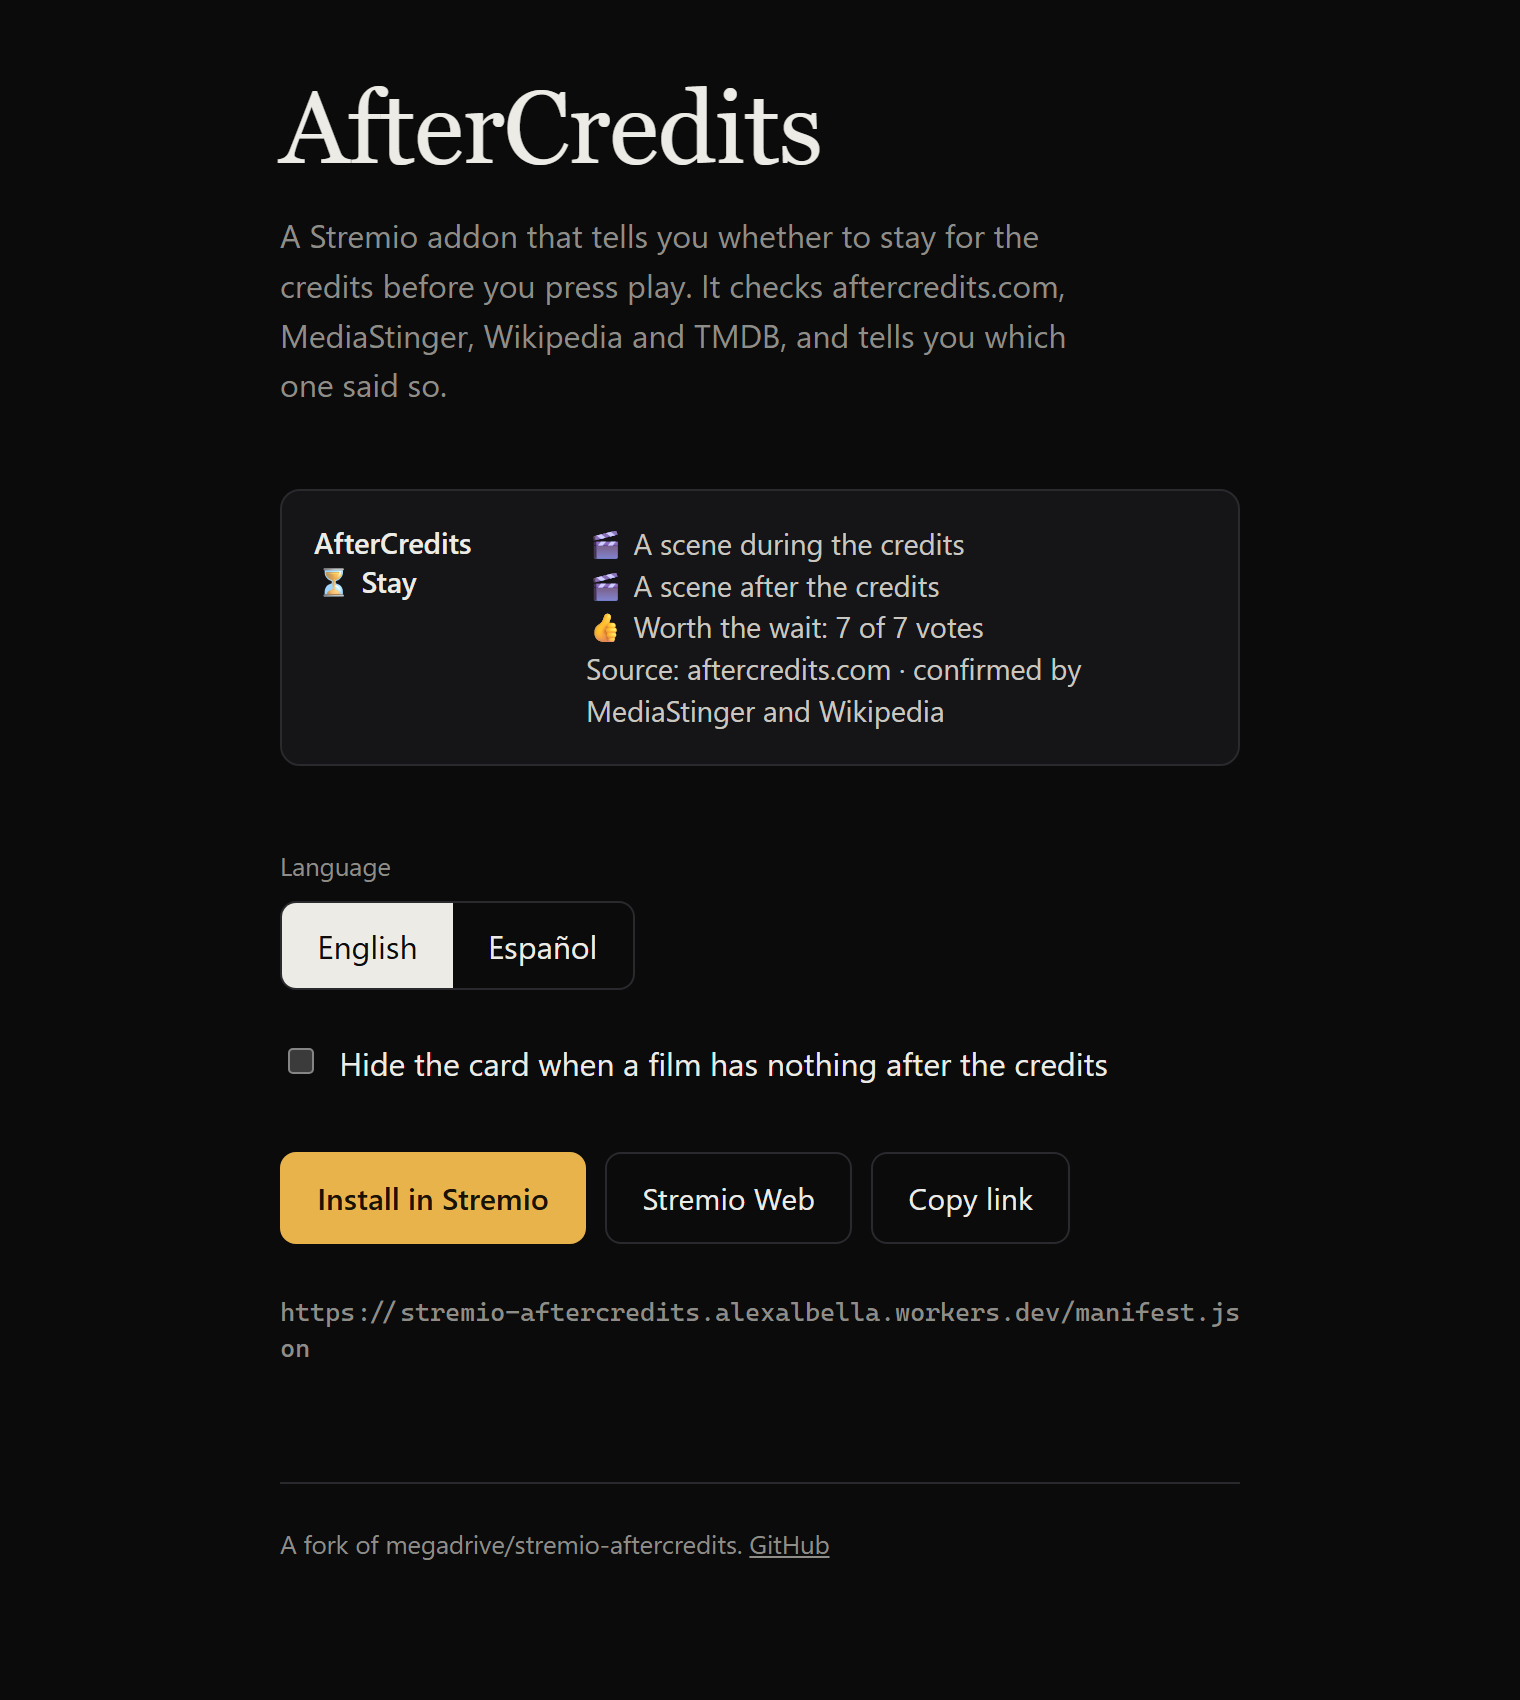
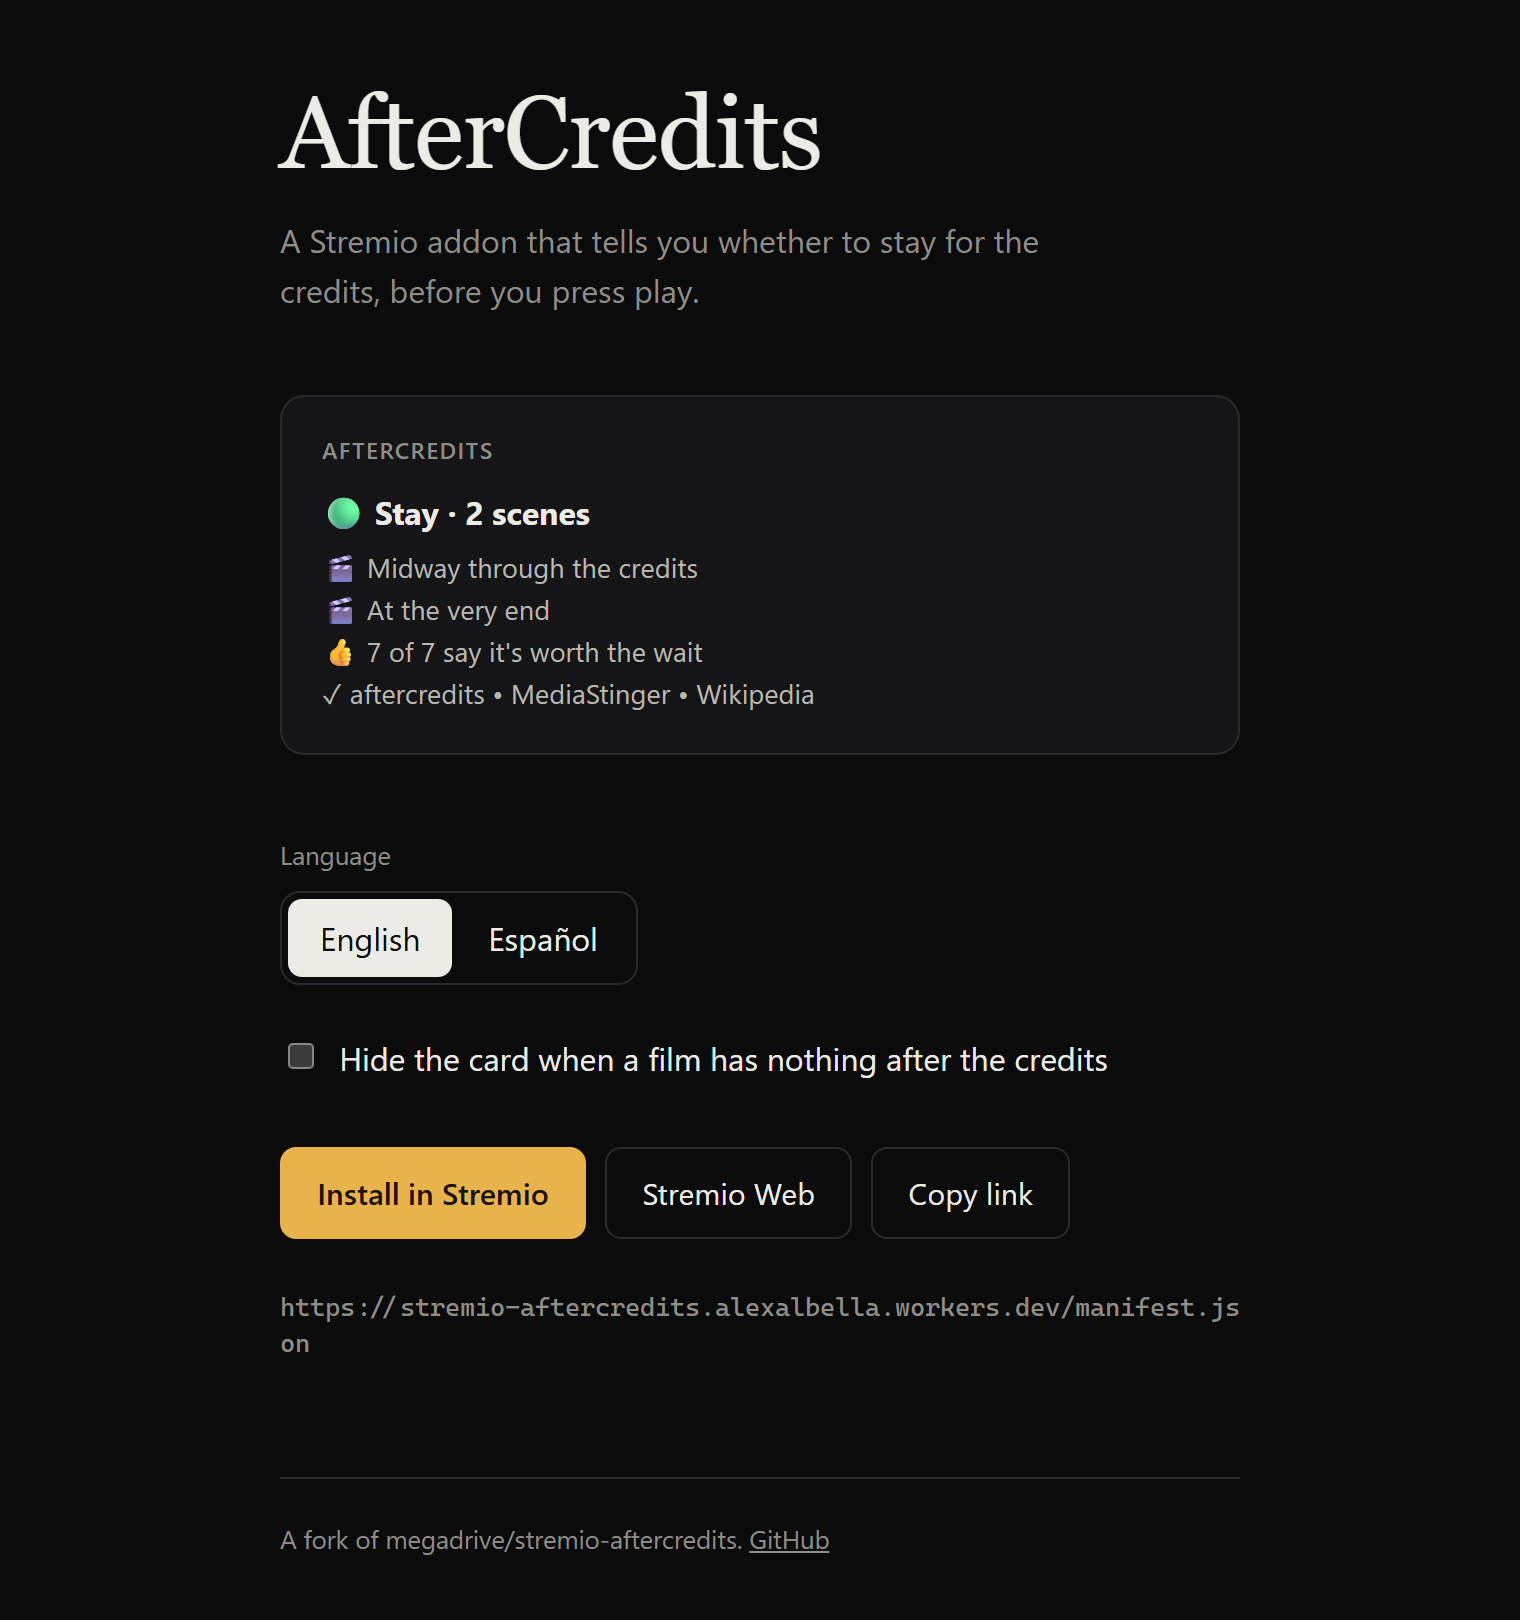
Card: traffic-light layout, half the words
The card now reads like the Ratings addon next to it: a coloured dot and
the verdict in the name, one short line per fact, the sources on one line.

  🟢 Quédate · 2 escenas        ⚪ Puedes irte
  🎬 A mitad de los créditos    Nada durante ni después de los créditos
  🎬 Al final del todo          ✓ aftercredits • MediaStinger
  👍 7 de 7 dicen que merece la pena
  ✓ aftercredits • MediaStinger • Wikipedia

- The name no longer repeats "AfterCredits"; Stremio already labels the group.
- 🟡 marks a disputed verdict, with the dissenting sources after ✗.
- A mostly negative reader vote shows as 👎.
- Configure page: the preview follows Stremio's layout, a shorter lede, and
  an inset segmented control. README and screenshot updated.

diff --git a/static/index.html b/static/index.html
@@ -39,27 +39,33 @@
     }
     .lede { color: var(--muted); margin: 0 0 2.5rem; max-width: 26rem; }
 
-    /* A preview of the card as it shows up in Stremio's stream list. */
+    /* A preview of the card as Stremio lays it out: the group label, the name
+       in bold, then the short lines underneath. */
     .card {
-      display: grid;
-      grid-template-columns: 7.5rem 1fr;
-      gap: 1rem;
       background: var(--panel);
       border: 1px solid var(--line);
-      border-radius: 10px;
-      padding: 1rem;
+      border-radius: 12px;
+      padding: 1.1rem 1.25rem 1.2rem;
       margin-bottom: 2.5rem;
-      font-size: 0.9rem;
     }
-    .card-name { white-space: pre-line; font-weight: 600; line-height: 1.35; }
-    .card-desc { white-space: pre-line; color: #c9c7c0; line-height: 1.45; }
+    .card-group {
+      font-size: 0.72rem;
+      font-weight: 600;
+      color: var(--muted);
+      text-transform: uppercase;
+      letter-spacing: 0.06em;
+      margin: 0 0 0.6rem;
+    }
+    .card-name { font-weight: 650; font-size: 1rem; margin: 0 0 0.3rem; }
+    .card-desc { white-space: pre-line; color: #b9b7b0; font-size: 0.85rem; line-height: 1.55; margin: 0; }
 
     fieldset { border: 0; padding: 0; margin: 0 0 1.5rem; }
     legend, .label { font-size: 0.8rem; color: var(--muted); margin-bottom: 0.5rem; padding: 0; }
-    .segmented { display: inline-flex; border: 1px solid var(--line); border-radius: 8px; overflow: hidden; }
+    .segmented { display: inline-flex; gap: 2px; padding: 3px; border: 1px solid var(--line); border-radius: 10px; }
     .segmented label { position: relative; }
     .segmented input { position: absolute; opacity: 0; inset: 0; margin: 0; cursor: pointer; }
-    .segmented span { display: block; padding: 0.55rem 1.1rem; cursor: pointer; }
+    .segmented span { display: block; padding: 0.45rem 1rem; border-radius: 7px; cursor: pointer; }
+    .segmented input:not(:checked) + span:hover { background: var(--panel); }
     .segmented input:checked + span { background: var(--text); color: var(--bg); }
     .segmented input:focus-visible + span { outline: 2px solid var(--accent); outline-offset: -2px; }
     .check { display: flex; gap: 0.6rem; align-items: flex-start; cursor: pointer; }
@@ -96,11 +102,12 @@
 <body>
   <main>
     <h1>AfterCredits</h1>
-    <p class="lede" data-i18n="lede">A Stremio addon that tells you whether to stay for the credits before you press play. It checks aftercredits.com, MediaStinger, Wikipedia and TMDB, and tells you which one said so.</p>
+    <p class="lede" data-i18n="lede">A Stremio addon that tells you whether to stay for the credits, before you press play.</p>
 
     <div class="card" aria-label="Preview">
-      <div class="card-name" id="preview-name"></div>
-      <div class="card-desc" id="preview-desc"></div>
+      <p class="card-group">AfterCredits</p>
+      <p class="card-name" id="preview-name"></p>
+      <p class="card-desc" id="preview-desc"></p>
     </div>
 
     <form id="config">
@@ -133,7 +140,7 @@
   <script>
     const T = {
       en: {
-        lede: "A Stremio addon that tells you whether to stay for the credits before you press play. It checks aftercredits.com, MediaStinger, Wikipedia and TMDB, and tells you which one said so.",
+        lede: "A Stremio addon that tells you whether to stay for the credits, before you press play.",
         language: "Language",
         hidenone: "Hide the card when a film has nothing after the credits",
         install: "Install in Stremio",
@@ -141,11 +148,11 @@
         copy: "Copy link",
         copied: "Copied",
         footer: "A fork of megadrive/stremio-aftercredits.",
-        name: "AfterCredits\n⏳ Stay",
-        desc: "🎬 A scene during the credits\n🎬 A scene after the credits\n👍 Worth the wait: 7 of 7 votes\nSource: aftercredits.com · confirmed by MediaStinger and Wikipedia",
+        name: "🟢 Stay · 2 scenes",
+        desc: "🎬 Midway through the credits\n🎬 At the very end\n👍 7 of 7 say it's worth the wait\n✓ aftercredits • MediaStinger • Wikipedia",
       },
       es: {
-        lede: "Un addon de Stremio que te dice si quedarte a los créditos antes de darle al play. Consulta aftercredits.com, MediaStinger, Wikipedia y TMDB, y te dice cuál lo ha dicho.",
+        lede: "Un addon de Stremio que te dice si quedarte a los créditos antes de darle al play.",
         language: "Idioma",
         hidenone: "Ocultar la tarjeta cuando no hay nada tras los créditos",
         install: "Instalar en Stremio",
@@ -153,8 +160,8 @@
         copy: "Copiar enlace",
         copied: "Copiado",
         footer: "Un fork de megadrive/stremio-aftercredits.",
-        name: "AfterCredits\n⏳ Quédate",
-        desc: "🎬 Una escena durante los créditos\n🎬 Una escena al final de los créditos\n👍 Merece la pena esperar: 7 de 7 votos\nFuente: aftercredits.com · lo confirman MediaStinger y Wikipedia",
+        name: "🟢 Quédate · 2 escenas",
+        desc: "🎬 A mitad de los créditos\n🎬 Al final del todo\n👍 7 de 7 dicen que merece la pena\n✓ aftercredits • MediaStinger • Wikipedia",
       },
     };
 

diff --git a/src/i18n.ts b/src/i18n.ts
@@ -1,8 +1,9 @@
 import type { Language } from "./config.js";
 import type { SourceId } from "./types.js";
 
+/** Short names: the card's source line has room for three of them. */
 export const SOURCE_NAMES: Record<SourceId, string> = {
-  aftercredits: "aftercredits.com",
+  aftercredits: "aftercredits",
   mediastinger: "MediaStinger",
   tmdb: "TMDB",
   wikipedia: "Wikipedia",
@@ -10,46 +11,37 @@ export const SOURCE_NAMES: Record<SourceId, string> = {
 
 type Strings = {
   description: string;
-  nameExtras: string;
-  nameNone: string;
+  stay: (scenes: number) => string;
+  go: string;
   during: (n: number) => string;
   after: (n: number) => string;
   somewhere: string;
   none: string;
   worthIt: (yes: number, votes: number) => string;
-  source: (name: string) => string;
-  confirmedBy: (names: string[]) => string;
-  disagree: (names: string[]) => string;
+  notWorthIt: (yes: number, votes: number) => string;
 };
-
-const list = (lang: Language, items: string[]) =>
-  new Intl.ListFormat(lang, { style: "long", type: "conjunction" }).format(items);
 
 export const STRINGS: Record<Language, Strings> = {
   en: {
     description: "Tells you whether a film has scenes during or after the credits, before you press play.",
-    nameExtras: "AfterCredits\n⏳ Stay",
-    nameNone: "AfterCredits\n✓ No extras",
-    during: (n) => (n > 1 ? `🎬 ${n} scenes during the credits` : "🎬 A scene during the credits"),
-    after: (n) => (n > 1 ? `🎬 ${n} scenes after the credits` : "🎬 A scene after the credits"),
-    somewhere: "🎬 An extra scene in the credits",
+    stay: (n) => (n === 0 ? "Stay" : `Stay · ${n} ${n === 1 ? "scene" : "scenes"}`),
+    go: "You can go",
+    during: (n) => (n > 1 ? `🎬 ${n} scenes midway through the credits` : "🎬 Midway through the credits"),
+    after: (n) => (n > 1 ? `🎬 ${n} scenes at the very end` : "🎬 At the very end"),
+    somewhere: "🎬 Somewhere in the credits",
     none: "Nothing during or after the credits",
-    worthIt: (yes, votes) => `👍 Worth the wait: ${yes} of ${votes} votes`,
-    source: (name) => `Source: ${name}`,
-    confirmedBy: (names) => `confirmed by ${list("en", names)}`,
-    disagree: (names) => `⚠ ${list("en", names)} ${names.length > 1 ? "say" : "says"} otherwise`,
+    worthIt: (yes, votes) => `👍 ${yes} of ${votes} say it's worth the wait`,
+    notWorthIt: (yes, votes) => `👎 Only ${yes} of ${votes} say it's worth the wait`,
   },
   es: {
     description: "Te dice si una película tiene escenas durante o después de los créditos antes de darle al play.",
-    nameExtras: "AfterCredits\n⏳ Quédate",
-    nameNone: "AfterCredits\n✓ Sin extras",
-    during: (n) => (n > 1 ? `🎬 ${n} escenas durante los créditos` : "🎬 Una escena durante los créditos"),
-    after: (n) => (n > 1 ? `🎬 ${n} escenas al final de los créditos` : "🎬 Una escena al final de los créditos"),
-    somewhere: "🎬 Una escena extra en los créditos",
+    stay: (n) => (n === 0 ? "Quédate" : `Quédate · ${n} ${n === 1 ? "escena" : "escenas"}`),
+    go: "Puedes irte",
+    during: (n) => (n > 1 ? `🎬 ${n} escenas a mitad de los créditos` : "🎬 A mitad de los créditos"),
+    after: (n) => (n > 1 ? `🎬 ${n} escenas al final del todo` : "🎬 Al final del todo"),
+    somewhere: "🎬 En algún momento de los créditos",
     none: "Nada durante ni después de los créditos",
-    worthIt: (yes, votes) => `👍 Merece la pena esperar: ${yes} de ${votes} votos`,
-    source: (name) => `Fuente: ${name}`,
-    confirmedBy: (names) => `${names.length > 1 ? "lo confirman" : "lo confirma"} ${list("es", names)}`,
-    disagree: (names) => `⚠ ${list("es", names)} ${names.length > 1 ? "dicen" : "dice"} lo contrario`,
+    worthIt: (yes, votes) => `👍 ${yes} de ${votes} dicen que merece la pena`,
+    notWorthIt: (yes, votes) => `👎 Solo ${yes} de ${votes} dicen que merece la pena`,
   },
 };

diff --git a/test/verdict.test.ts b/test/verdict.test.ts
@@ -61,29 +61,38 @@ describe("config", () => {
 });
 
 describe("streams", () => {
-  it("writes the card in Spanish with source and confirmation", () => {
+  it("writes the card in Spanish: green dot, one line per scene, vote, sources", () => {
     const v = decide([
       { ...r("aftercredits", true, 1, 1), worthIt: { yes: 7, votes: 7 } },
       r("mediastinger", true, 1, 1),
       r("wikipedia", true, 0, 1),
     ]);
     const [stream] = toStreams(v, parseConfig("es"));
-    expect(stream.name).toBe("AfterCredits\n⏳ Quédate");
+    expect(stream.name).toBe("🟢 Quédate · 2 escenas");
     expect(stream.title).toBe(
       [
-        "🎬 Una escena durante los créditos",
-        "🎬 Una escena al final de los créditos",
-        "👍 Merece la pena esperar: 7 de 7 votos",
-        "Fuente: aftercredits.com · lo confirman MediaStinger y Wikipedia",
+        "🎬 A mitad de los créditos",
+        "🎬 Al final del todo",
+        "👍 7 de 7 dicen que merece la pena",
+        "✓ aftercredits • MediaStinger • Wikipedia",
       ].join("\n"),
     );
     expect(stream.externalUrl).toBe("https://aftercredits.example/film");
   });
 
-  it("says there is nothing, unless the user hid that card", () => {
-    const v = decide([r("aftercredits", false), r("tmdb", true, 0, 1)]);
+  it("turns the vote around when most readers say it is not worth it", () => {
+    const v = decide([{ ...r("aftercredits", true, 0, 1), worthIt: { yes: 1, votes: 5 } }]);
     const [stream] = toStreams(v, parseConfig("en"));
-    expect(stream.title).toBe("Nothing during or after the credits\nSource: aftercredits.com\n⚠ TMDB says otherwise");
+    expect(stream.name).toBe("🟢 Stay · 1 scene");
+    expect(stream.title).toBe("🎬 At the very end\n👎 Only 1 of 5 say it's worth the wait\n✓ aftercredits");
+  });
+
+  it("says you can go, marks a dispute in yellow, and hides the card on request", () => {
+    const v = decide([r("aftercredits", false), r("mediastinger", true, 1, 0), r("wikipedia", true, 0, 1)]);
+    const [stream] = toStreams(v, parseConfig("es"));
+    expect(stream.name).toBe("🟡 Puedes irte");
+    expect(stream.title).toBe("Nada durante ni después de los créditos\n✓ aftercredits   ✗ MediaStinger • Wikipedia");
+    expect(toStreams(decide([r("aftercredits", false)]), parseConfig("en"))[0].name).toBe("⚪ You can go");
     expect(toStreams(v, parseConfig("hidenone"))).toEqual([]);
   });
 

diff --git a/src/stream.ts b/src/stream.ts
@@ -18,32 +18,42 @@ export type Stream = {
 /** Minimum votes before the "worth the wait" line means anything. */
 const MIN_VOTES = 3;
 
+/**
+ * The card reads like the Ratings addon's: a coloured dot and the verdict in
+ * the name, one short line per fact, sources on one line.
+ *   🟢 stay   ⚪ you can go   🟡 a source says otherwise
+ */
 export function toStreams(verdict: Verdict, config: Config): Stream[] {
   if (verdict.status === "unknown" || !verdict.primary) return [];
   if (verdict.status === "none" && config.hideNone) return [];
 
   const t = STRINGS[config.lang];
+  const disputed = verdict.disagree.length > 0;
   const lines: string[] = [];
+  let name: string;
 
   if (verdict.status === "extras") {
+    name = `${disputed ? "🟡" : "🟢"} ${t.stay(verdict.during + verdict.after)}`;
     if (verdict.during) lines.push(t.during(verdict.during));
     if (verdict.after) lines.push(t.after(verdict.after));
     if (!verdict.during && !verdict.after) lines.push(t.somewhere);
-    if (verdict.worthIt && verdict.worthIt.votes >= MIN_VOTES) {
-      lines.push(t.worthIt(verdict.worthIt.yes, verdict.worthIt.votes));
+    const vote = verdict.worthIt;
+    if (vote && vote.votes >= MIN_VOTES) {
+      lines.push(vote.yes * 2 >= vote.votes ? t.worthIt(vote.yes, vote.votes) : t.notWorthIt(vote.yes, vote.votes));
     }
   } else {
+    name = `${disputed ? "🟡" : "⚪"} ${t.go}`;
     lines.push(t.none);
   }
 
-  let source = t.source(SOURCE_NAMES[verdict.primary.source]);
-  if (verdict.agree.length) source += ` · ${t.confirmedBy(verdict.agree.map((s) => SOURCE_NAMES[s]))}`;
-  lines.push(source);
-  if (verdict.disagree.length) lines.push(t.disagree(verdict.disagree.map((s) => SOURCE_NAMES[s])));
+  const names = (ids: typeof verdict.agree) => ids.map((s) => SOURCE_NAMES[s]).join(" • ");
+  let sources = `✓ ${names([verdict.primary.source, ...verdict.agree])}`;
+  if (disputed) sources += `   ✗ ${names(verdict.disagree)}`;
+  lines.push(sources);
 
   return [
     {
-      name: verdict.status === "extras" ? t.nameExtras : t.nameNone,
+      name,
       title: lines.join("\n"),
       externalUrl: verdict.primary.link,
     },

diff --git a/test/app.test.ts b/test/app.test.ts
@@ -65,8 +65,8 @@ describe("addon routes", () => {
     const res = await get("/es/stream/movie/tt6263850.json");
     const body = await res.json();
     expect(body.streams).toHaveLength(1);
-    expect(body.streams[0].name).toBe("AfterCredits\n⏳ Quédate");
-    expect(body.streams[0].title).toContain("Fuente: aftercredits.com · lo confirman MediaStinger y Wikipedia");
+    expect(body.streams[0].name).toBe("🟢 Quédate · 2 escenas");
+    expect(body.streams[0].title).toContain("✓ aftercredits • MediaStinger • Wikipedia");
     // stremio-core reads `title` as an alias of `description`; a stream with
     // both is a "duplicate field" error and Stremio drops the whole response.
     expect(Object.keys(body.streams[0]).sort()).toEqual(["externalUrl", "name", "title"]);
@@ -77,7 +77,7 @@ describe("addon routes", () => {
 
     fetchMock.mockClear();
     const again = await (await get("/stream/movie/tt6263850.json")).json();
-    expect(again.streams[0].name).toBe("AfterCredits\n⏳ Stay");
+    expect(again.streams[0].name).toBe("🟢 Stay · 2 scenes");
     expect(fetchMock).not.toHaveBeenCalled();
   });
 

diff --git a/README.md b/README.md
@@ -29,16 +29,24 @@ It is free and needs no account or API key.
 
 ## What you see
 
-Open any film. The addon adds one entry to the stream list:
+Open any film and the addon adds one entry to the stream list, in the same style as the Ratings addon: a coloured dot, the verdict, then one short line per fact.
 
-| The film has | The card says |
+```
+🟢 Stay · 2 scenes                       ⚪ You can go
+🎬 Midway through the credits            Nothing during or after the credits
+🎬 At the very end                       ✓ aftercredits • MediaStinger
+👍 7 of 7 say it's worth the wait
+✓ aftercredits • MediaStinger • Wikipedia
+```
+
+| Dot | Meaning |
 |---|---|
-| Scenes during or after the credits | **⏳ Stay**, how many scenes and when, and the readers' vote on whether the wait is worth it |
-| Nothing | **✓ No extras** (you can hide this card in the settings) |
-| Sources that disagree | The answer of the most trusted source, plus a line such as *⚠ MediaStinger says otherwise* |
-| No entry anywhere | No card |
+| 🟢 | Stay: there is a scene during or after the credits |
+| ⚪ | You can go: the sources say there is nothing |
+| 🟡 | The verdict is disputed: the sources after ✗ say the opposite |
+| (no card) | No source has an entry for the film |
 
-Every card names its source and the sources that agree with it, and selecting it opens the source page. The card never describes the scenes themselves.
+The last line lists the sources that back the verdict (✓) and any that contradict it (✗). Selecting the card opens the page of the first one. The card never describes the scenes themselves. You can hide the "You can go" card in the settings.
 
 ## How it decides
 
@@ -68,7 +76,7 @@ The first source with a definite answer decides. A film only counts as a match w
 
 Stremio addons carry their settings in the install URL. The configure page builds the URL for you, and Stremio's **Configure** button opens that page again.
 
-| Install URL | Language | "No extras" card |
+| Install URL | Language | "You can go" card |
 |---|---|---|
 | `/manifest.json` | English | shown |
 | `/es/manifest.json` | Spanish | shown |
@@ -80,8 +88,8 @@ Stremio addons carry their settings in the install URL. The configure page build
 **Why is there no card for some films?**
 None of the sources has an entry for that film. This is more common with older films and films made outside Hollywood.
 
-**Why does a card say a source disagrees?**
-The sites do not always agree. For *Barbie*, aftercredits.com lists no extras while MediaStinger and Wikipedia each list a scene, so the card gives the aftercredits.com answer and adds a line saying the other two disagree.
+**Why is a card yellow?**
+The sites do not always agree. For *Barbie*, aftercredits.com lists no extras while MediaStinger and Wikipedia each list a scene, so the card turns 🟡, keeps the aftercredits.com answer and lists the other two after ✗.
 
 **Does it work with series?**
 No. Post-credits scenes are a film habit, and the sources only cover films.
